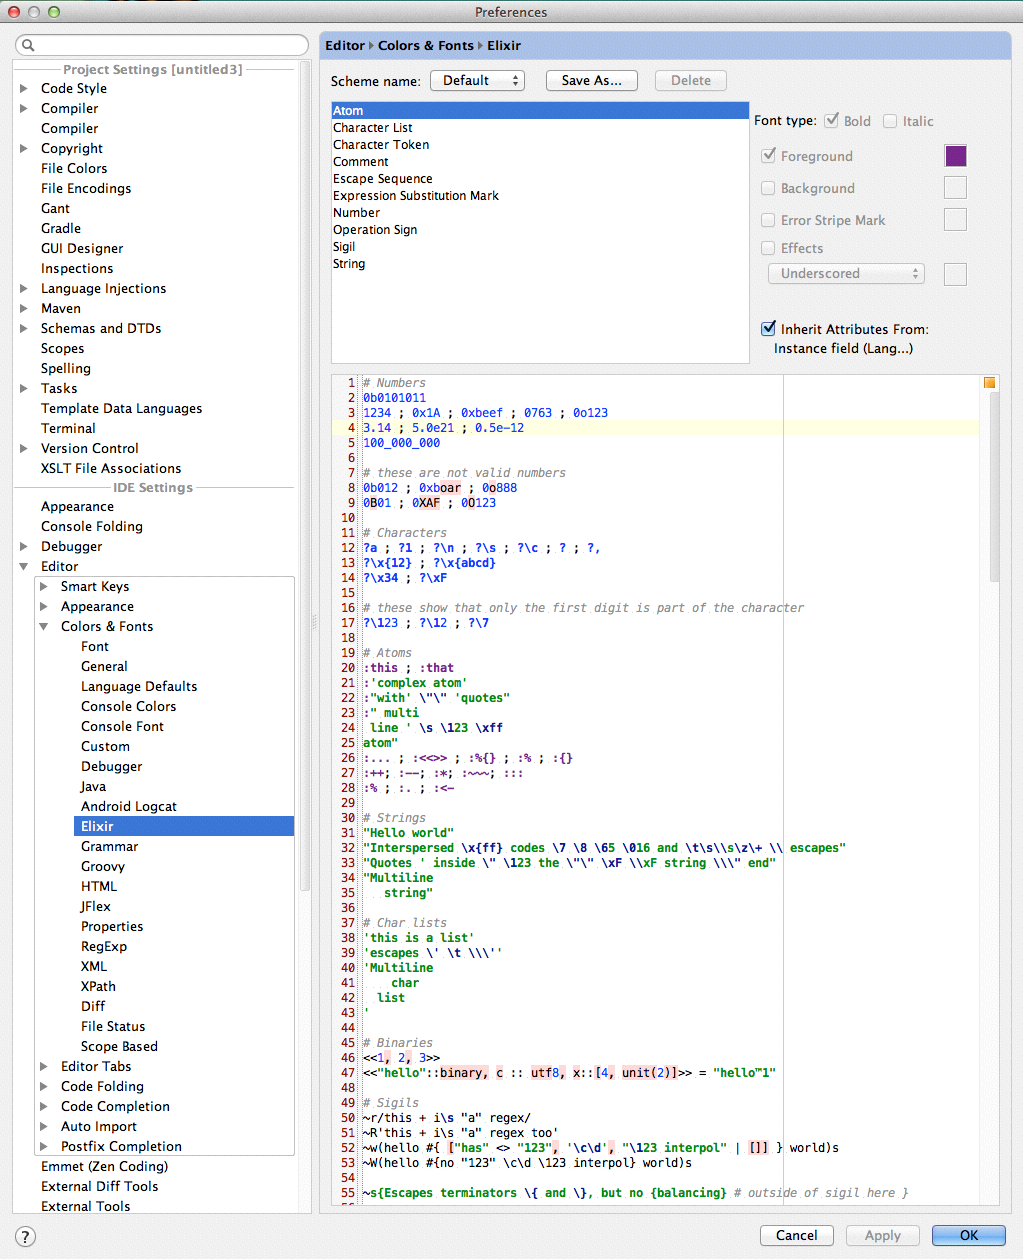
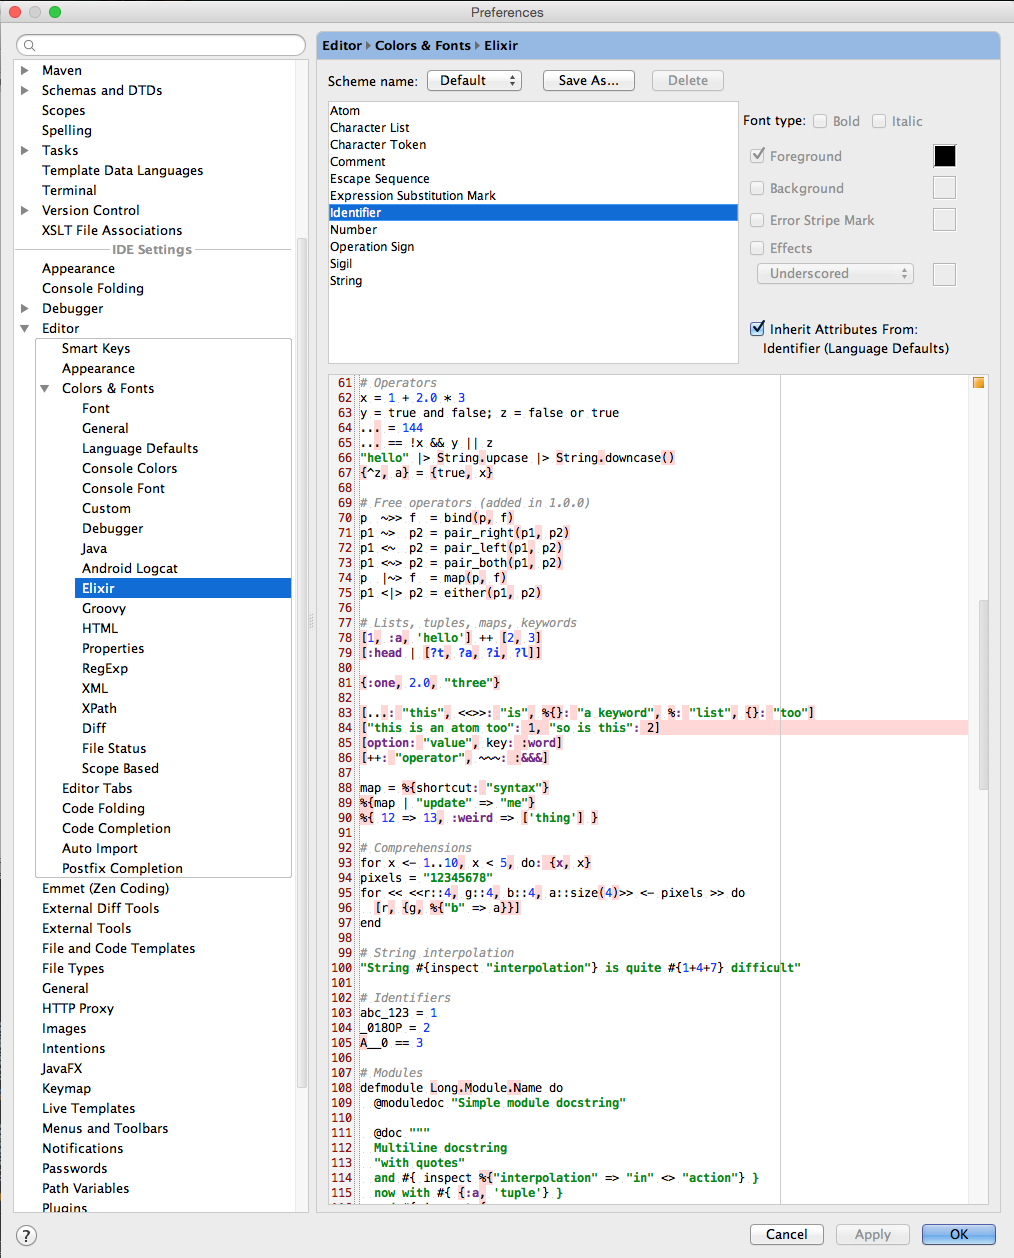
Add Identifiers to Color Settings page

diff --git a/src/org/elixir_lang/ElixirSyntaxHighlighter.java b/src/org/elixir_lang/ElixirSyntaxHighlighter.java
@@ -47,6 +47,11 @@ public class ElixirSyntaxHighlighter extends SyntaxHighlighterBase {
             DefaultLanguageHighlighterColors.PARENTHESES
     );
 
+    public static final TextAttributesKey IDENTIFIER = createTextAttributesKey(
+            "ELIXIR_IDENTIFIER",
+            DefaultLanguageHighlighterColors.IDENTIFIER
+    );
+
     public static final TextAttributesKey NUMBER = createTextAttributesKey(
             "ELIXIR_NUMBER",
             DefaultLanguageHighlighterColors.NUMBER
@@ -80,6 +85,7 @@ public class ElixirSyntaxHighlighter extends SyntaxHighlighterBase {
     private static final TextAttributesKey[] COMMENT_KEYS = new TextAttributesKey[]{COMMENT};
     private static final TextAttributesKey[] EMPTY_KEYS = new TextAttributesKey[0];
     private static final TextAttributesKey[] EXPRESSION_SUBSTITUTION_MARK_KEYS = new TextAttributesKey[]{EXPRESSION_SUBSTITUTION_MARK};
+    private static final TextAttributesKey[] IDENTIFIER_KEYS = new TextAttributesKey[]{IDENTIFIER};
     private static final TextAttributesKey[] NUMBER_KEYS = new TextAttributesKey[]{NUMBER};
     private static final TextAttributesKey[] OPERATION_SIGN_KEYS = new TextAttributesKey[]{OPERATION_SIGN};
     private static final TextAttributesKey[] SIGIL_KEYS = new TextAttributesKey[]{SIGIL};
@@ -188,6 +194,8 @@ public class ElixirSyntaxHighlighter extends SyntaxHighlighterBase {
             return COMMENT_KEYS;
         } else if (EXPRESSION_SUBSTITUTION_MARKS.contains(tokenType)) {
             return EXPRESSION_SUBSTITUTION_MARK_KEYS;
+        } else if (tokenType.equals(ElixirTypes.IDENTIFIER)) {
+            return IDENTIFIER_KEYS;
         } else if (tokenType.equals(ElixirTypes.NUMBER)) {
             return NUMBER_KEYS;
         } else if (OPERATION_SIGNS.contains(tokenType)) {

diff --git a/src/org/elixir_lang/ElixirColorSettingsPage.java b/src/org/elixir_lang/ElixirColorSettingsPage.java
@@ -26,6 +26,7 @@ public class ElixirColorSettingsPage implements ColorSettingsPage {
             new AttributesDescriptor("Comment", ElixirSyntaxHighlighter.COMMENT),
             new AttributesDescriptor("Escape Sequence", ElixirSyntaxHighlighter.VALID_ESCAPE_SEQUENCE),
             new AttributesDescriptor("Expression Substitution Mark", ElixirSyntaxHighlighter.EXPRESSION_SUBSTITUTION_MARK),
+            new AttributesDescriptor("Identifier", ElixirSyntaxHighlighter.IDENTIFIER),
             new AttributesDescriptor("Number", ElixirSyntaxHighlighter.NUMBER),
             new AttributesDescriptor("Operation Sign", ElixirSyntaxHighlighter.OPERATION_SIGN),
             new AttributesDescriptor("Sigil", ElixirSyntaxHighlighter.SIGIL),
